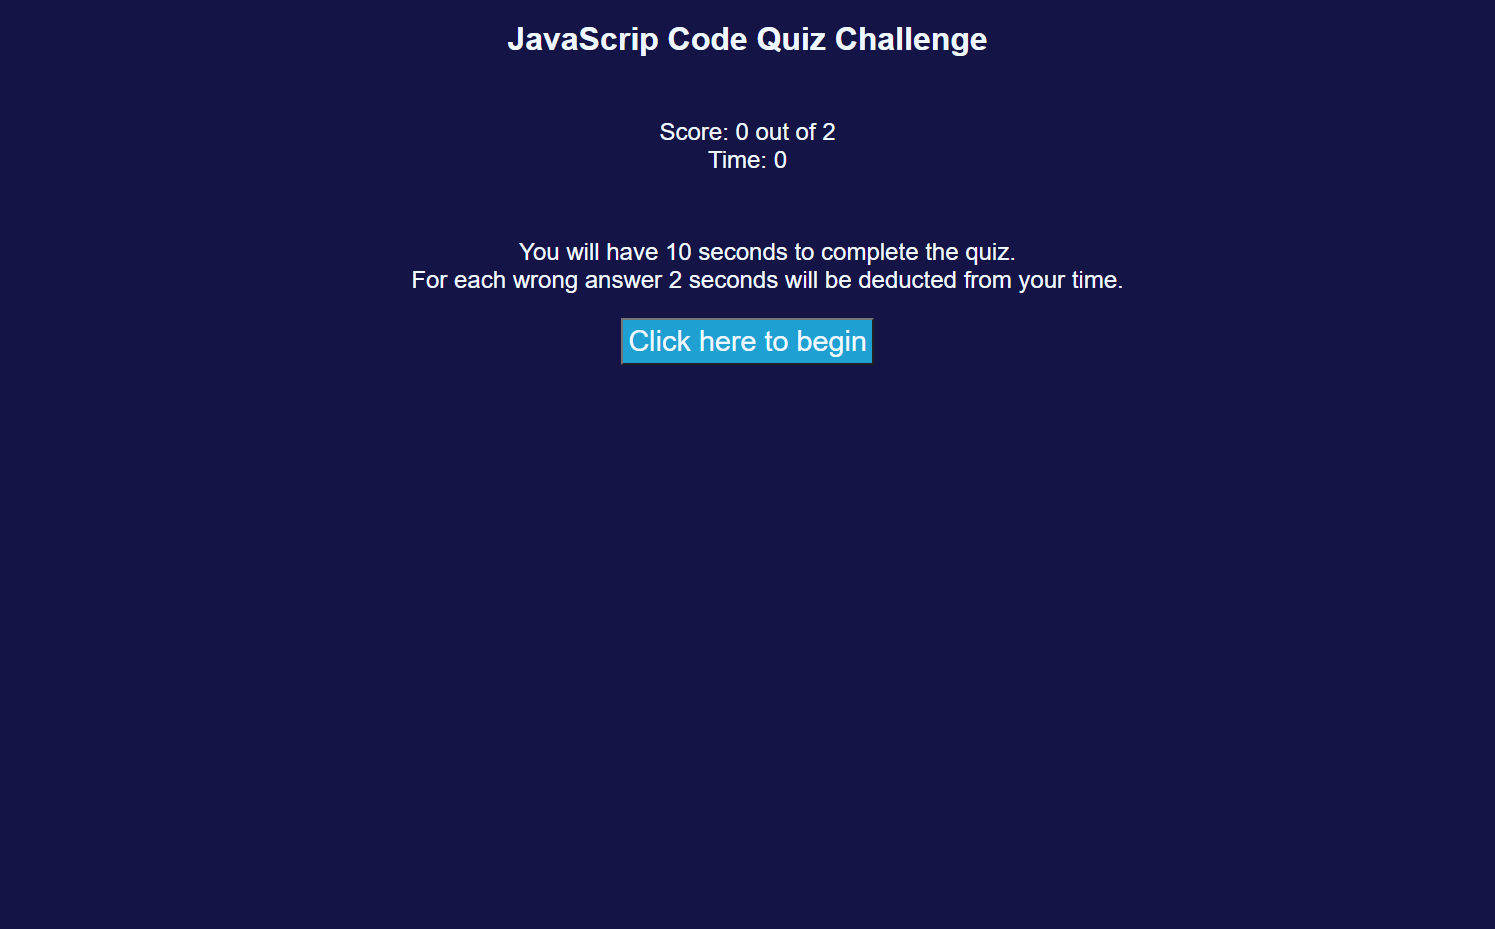
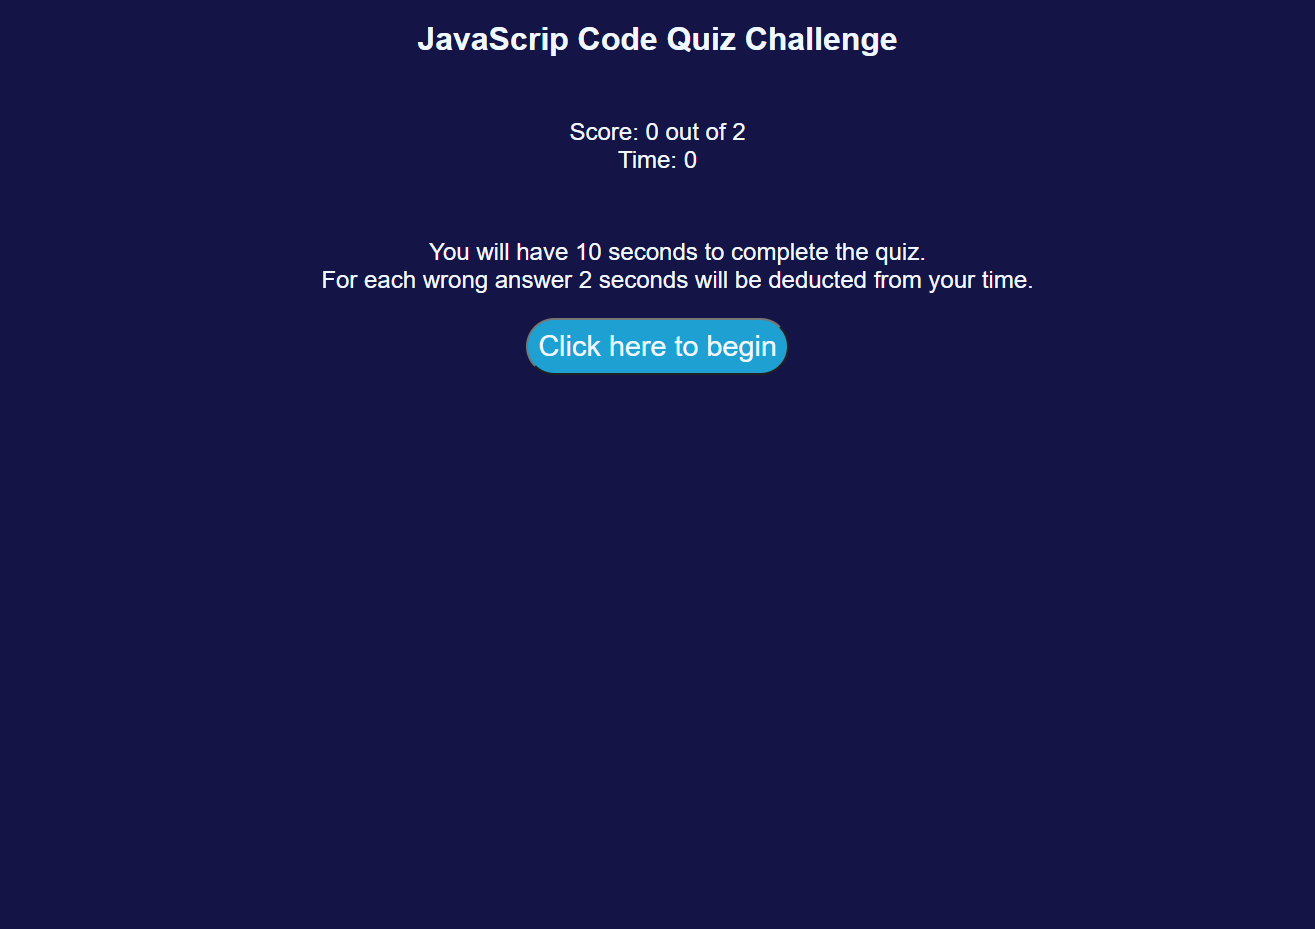
updating readme content and screenshots. Commenting css.

diff --git a/index.html b/index.html
@@ -14,7 +14,6 @@
     <!-- Initial screen to start quiz -->
     <div class="header">
       <h1>JavaScrip Code Quiz Challenge</h1><br />
-
     </div>
   </header>
 
@@ -24,7 +23,6 @@
       <!-- Displays score -->
       <div class="scoreContainer">
         <div>Score: <span id="scoreText">0</span> out of 2</div>
-
         <!-- Displays time -->
         <div class="timeContainer">
           <div class="time">Time: <span id="time-text">0</span></div>
@@ -70,15 +68,22 @@
     <!-- Initials Input and submit -->
     <section>
       <div class="initialsContainer">
-        <p>Enter your initials, then click "Submit" to save your score:</p>
+        <ul>
+          <li>Enter your initials below</li>
+          <li>Then click "Submit" to save your score:</li>
+        </ul>
         <input type="text" id="initials" name="initials">
         <button class="button submit-button" id="submitButton">Submit</button>
-    <!-- Displays saved initials and score -->
-    <div class="refresh">
-          <p>Refresh the page to try again.</p>
+        <!-- Displays saved initials and score -->
+        <div class="refresh">
+          <ul>
+            <li>Refresh the page to try again.</li>
+            <br />
+            <li>Saved User Scores:</li>
+          </ul>
         </div>
-        <p>Saved User Scores:</p>
-        <div id="scoreList">
+        <div>
+          <ul id="scoreList">
         </div>
       </div>
     </section>

diff --git a/assets/css/style.css b/assets/css/style.css
@@ -4,6 +4,7 @@
   color: aliceblue;
 }
 
+/* general header and body styling */
 .header,
 body {
   font-family: Arial;
@@ -14,6 +15,7 @@ body {
   margin: 0;
 }
 
+/* styles containers */
 .scoreContainer,
 .startContainer,
 .questionContainer,
@@ -26,40 +28,57 @@ body {
   font-size: 1.5em;
 }
 
+/* justifies content of startList */
 .startList {
   justify-content: center;
 }
 
+/* styles the initials input box */
+input {
+  border-radius: 30px;
+  text-align: center;
+  justify-content: center;
+  align-content: center;
+}
+
+/* styles all buttons */
 .button {
   font-size: 1.2em;
-  padding: 5px;
+  padding: 10px;
   text-align: center;
   justify-content: center;
   align-content: center;
   background-color: rgb(30, 160, 211);
+  border-radius: 30px;
 }
 
-.startList ul li {
+/* adds hover effect to buttons */
+button:hover {
+  background-color: #cb38f0;
+  color: #fff;
+}
+
+/* styles ul li elements not to have bullets */
+ul li {
   list-style: none;
 
 }
 
+/* styles the question text */
 .questionText,
 .questionText2 {
   font-size: 1.5em;
   margin: 1.5em;
 }
 
-.initialsContainer p {
-  font-size: 1.5em;
-}
-
+/* styles the saved initials */
 #initials {
   font-size: 1.5em;
   background-color: aliceblue;
   color: blue;
 }
 
+/* class hides content */
 .hidden {
   display: none;
 }

diff --git a/assets/js/script.js b/assets/js/script.js
@@ -147,8 +147,8 @@ function renderLastUser() {
     if (initialsInput !== null) {
         scoreList.innerHTML = ""
         for (var i = 0; i < lastUser.length; i++) {
-            var scoreEl = document.createElement("p")
-            scoreEl.textContent = lastUser[i].userInitials + " " + lastUser[i].userScore + " of 2 correct!"
+            var scoreEl = document.createElement("li")
+            scoreEl.textContent = lastUser[i].userInitials + " scored " + lastUser[i].userScore + " of 2 correct!"
             scoreList.appendChild(scoreEl)
         }
     } else {

diff --git a/README.md b/README.md
@@ -2,20 +2,22 @@
 
 
 ## Description
+---
 
 Given only an example of a code quiz and desired functionality, the goal was to produce a style.css, index.html, and script.js file that work together to produce the desired quiz.
 
-NOTE: Due to time constraints, I was not able to finish all of the coding for this project. It is a work in progress. It needs more styling added as well as some functionality.
 
 - [Git Hub Repository](https://github.com/areitan/Code_Quiz)
 - [Code Quiz Deployed Application](https://areitan.github.io/Code_Quiz/)
 
 
 # Example
+---
 
 ![Code Quiz Example](/assets/images/04-web-apis-homework-demo.gif)
 
-#Code Quiz
+# Code Quiz
+---
 
 ![Code Quiz Screenshot: Starting the Quiz](/assets/images/code_quiz_screenshot.png)
 
@@ -24,7 +26,8 @@ NOTE: Due to time constraints, I was not able to finish all of the coding for th
 ![Code Quiz Screenshot: Finishing the Quiz](/assets/images/code_quiz_screenshot3.png)
 
 
-## Process
+## Process And Technology Used
+---
 
 ### Thinking Through The Problem
 
@@ -36,34 +39,40 @@ NOTE: Due to time constraints, I was not able to finish all of the coding for th
 
 1. Since the HTML file is the framework for the application, I thought it was logical to start there.
 2. I played around with several different layouts to map out the pieces I thought I would need.
-3. Ultimately, I decided to add sections for each "screen" I wanted to show.
-4. I added id's and event listeners to allow me to access the correct answer buttons in order to use them for scoring.
+3. Ultimately, I decided to include all of the elements (except local storage elements since those are based on user input) in the ```HTML``` document.
+4. I added classes to control hiding or showing sections at a given time in the quiz.
+5. Specifically, I added classes to the ```HTML``` containers for the sections to control when they would be displayed.
+6. I added id's in order to traverse the DOM and interact with elements in the ```HTML```.
 
 
 ### style.css
 
-1. I decided to wait to do much styling until the end, so at the beginning I only added very basic styling to the CSS file. Then for readability, I added more css as I went.
+1. I decided to wait to do much styling until the end, so at the beginning, I only added very basic styling to the CSS file. Then for readability, I added more css as I went.
 2. I added a class called ```.hidden``` with  ```display: none``` to work together with the javescript and hide items when I didn't want them displayed.
-3. Unortunately, I ran out of time to finish the styling.
+3. Added hover effect to all buttons for a cool effect.
+4. I styles the buttons and initials input with a border radius.
 
 
 ### script.js
 
 1. I made an outline of comments to help guide my process in creating the javaScript I needed.
-2. I added a class ```.hidden``` and added it or removed it for elements to control when they would display or they would be hidden.
+2. I added a class ```.hidden``` and added it or removed it for elements to control when they would be displayed or hidden.
 3. I used event listeners and functions to keep score and control the flow of questions.
 4. This document is incomplete. I ran out of time and was unable to finish all of the functionality.
 5. I added an event listener and functions to allow the user to submit their initials and score and have it saves at the bottom of the page.
-6. I added a function to reduce the time interval for incorrect answers.
-7. I used local storage to show the last save user and their score on the end screen of the quiz.
+6. I added id's and event listeners to allow me to access the correct answer buttons in order to use them for scoring and subtracting time.
+7. I added a function to reduce the time interval for incorrect answers.
+8. I used local storage to show the last save user and their score on the end screen of the quiz.
 
 
 ## How To Contribute
+---
 
 There are certainly more elegant ways to write this code, and input is welcome.
 
 
 ## License
+---
 
 Copyright (c) ```<2022> <copyright April Reitan>```
 
@@ -88,6 +97,7 @@ SOFTWARE.
 
 
 ## Credits
+---
 
 - [Guru99: Top 100 JavaScript Interview Questions and Answers for 2022](https://www.guru99.com/javascript-interview-questions-answers.html)
 - [W3 Schools: HTML ```<input>``` type Attribute](https://www.w3schools.com/tags/att_input_type.asp)
